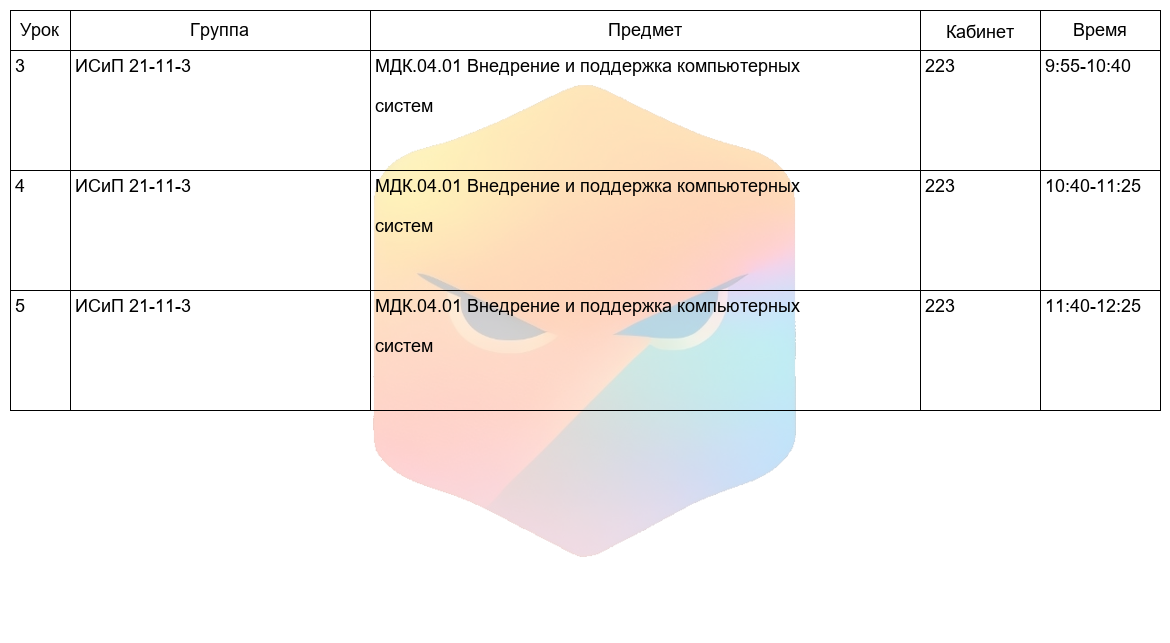
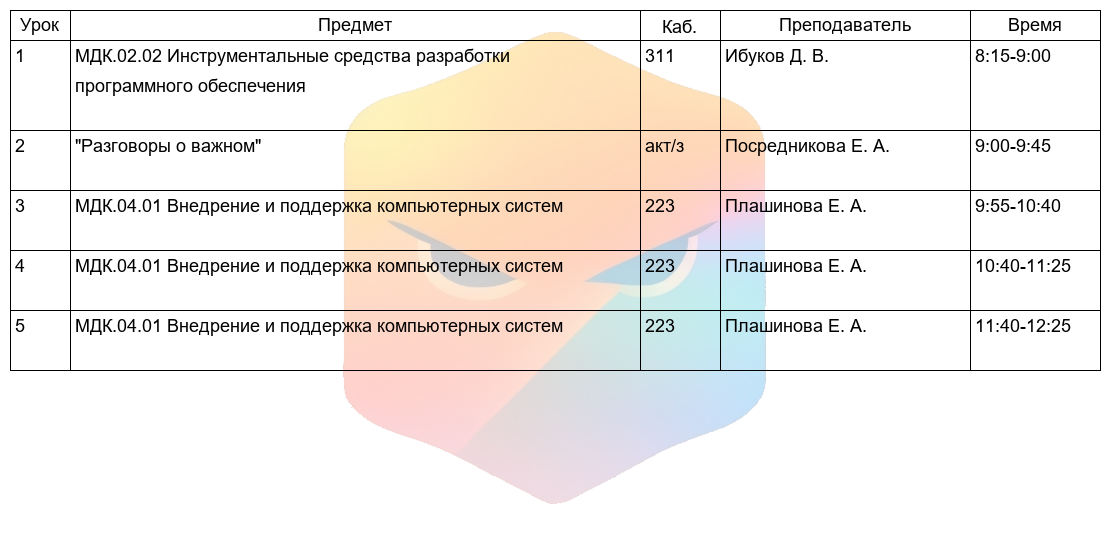
Добавил вывод группы и препода при запросе расписания

diff --git a/TeleBot.py b/TeleBot.py
@@ -209,11 +209,12 @@ def callback_handler(call):
     if '*' in call.data:
         global TeacherQueriesCount
         TeacherQueriesCount += 1
-        
-        image = getTeacherScheduleAsImg(GetTeacherSchedule(datetime.datetime.strptime(call.data[0:len(call.data)-1],"%d.%m.%Y"),Database.getPrepodIdByChatId(call.message.chat.id)))
+        prepod = Database.getPrepodIdByChatId(call.message.chat.id)
+        image = getTeacherScheduleAsImg(GetTeacherSchedule(datetime.datetime.strptime(call.data[0:len(call.data)-1],"%d.%m.%Y"),prepod))
         if image != False:
             image.save('table.png')
             with open('table.png', 'rb') as f:
+                bot.send_message(call.message.chat.id, text="Расписание для "+ prepod+ ' на ' + call.data[0:len(call.data)-1])
                 bot.send_photo(call.message.chat.id,photo=f)
             logger.Log(str(call.message.chat.id)+" "+str(datetime.datetime.now()) + ' teacher success!' )
 
@@ -225,10 +226,12 @@ def callback_handler(call):
     else:
         global UsersQueriesCount
         UsersQueriesCount += 1
-        image = getGroupScheduleAsImg(GetSchedule(datetime.datetime.strptime(call.data,"%d.%m.%Y"),Database.GetGroupIdByUserId(call.message.chat.id)))
+        group = Database.GetGroupIdByUserId(call.message.chat.id)
+        image = getGroupScheduleAsImg(GetSchedule(datetime.datetime.strptime(call.data,"%d.%m.%Y"), group))
         if image != False:
             image.save('table.png')
             with open('table.png', 'rb') as f:
+                bot.send_message(call.message.chat.id, text="Расписание для "+ group+ ' на ' + call.data)
                 bot.send_photo(call.message.chat.id,photo=f)
             logger.Log(str(call.message.chat.id)+" "+str(datetime.datetime.now()) + ' success!' )
         else:
